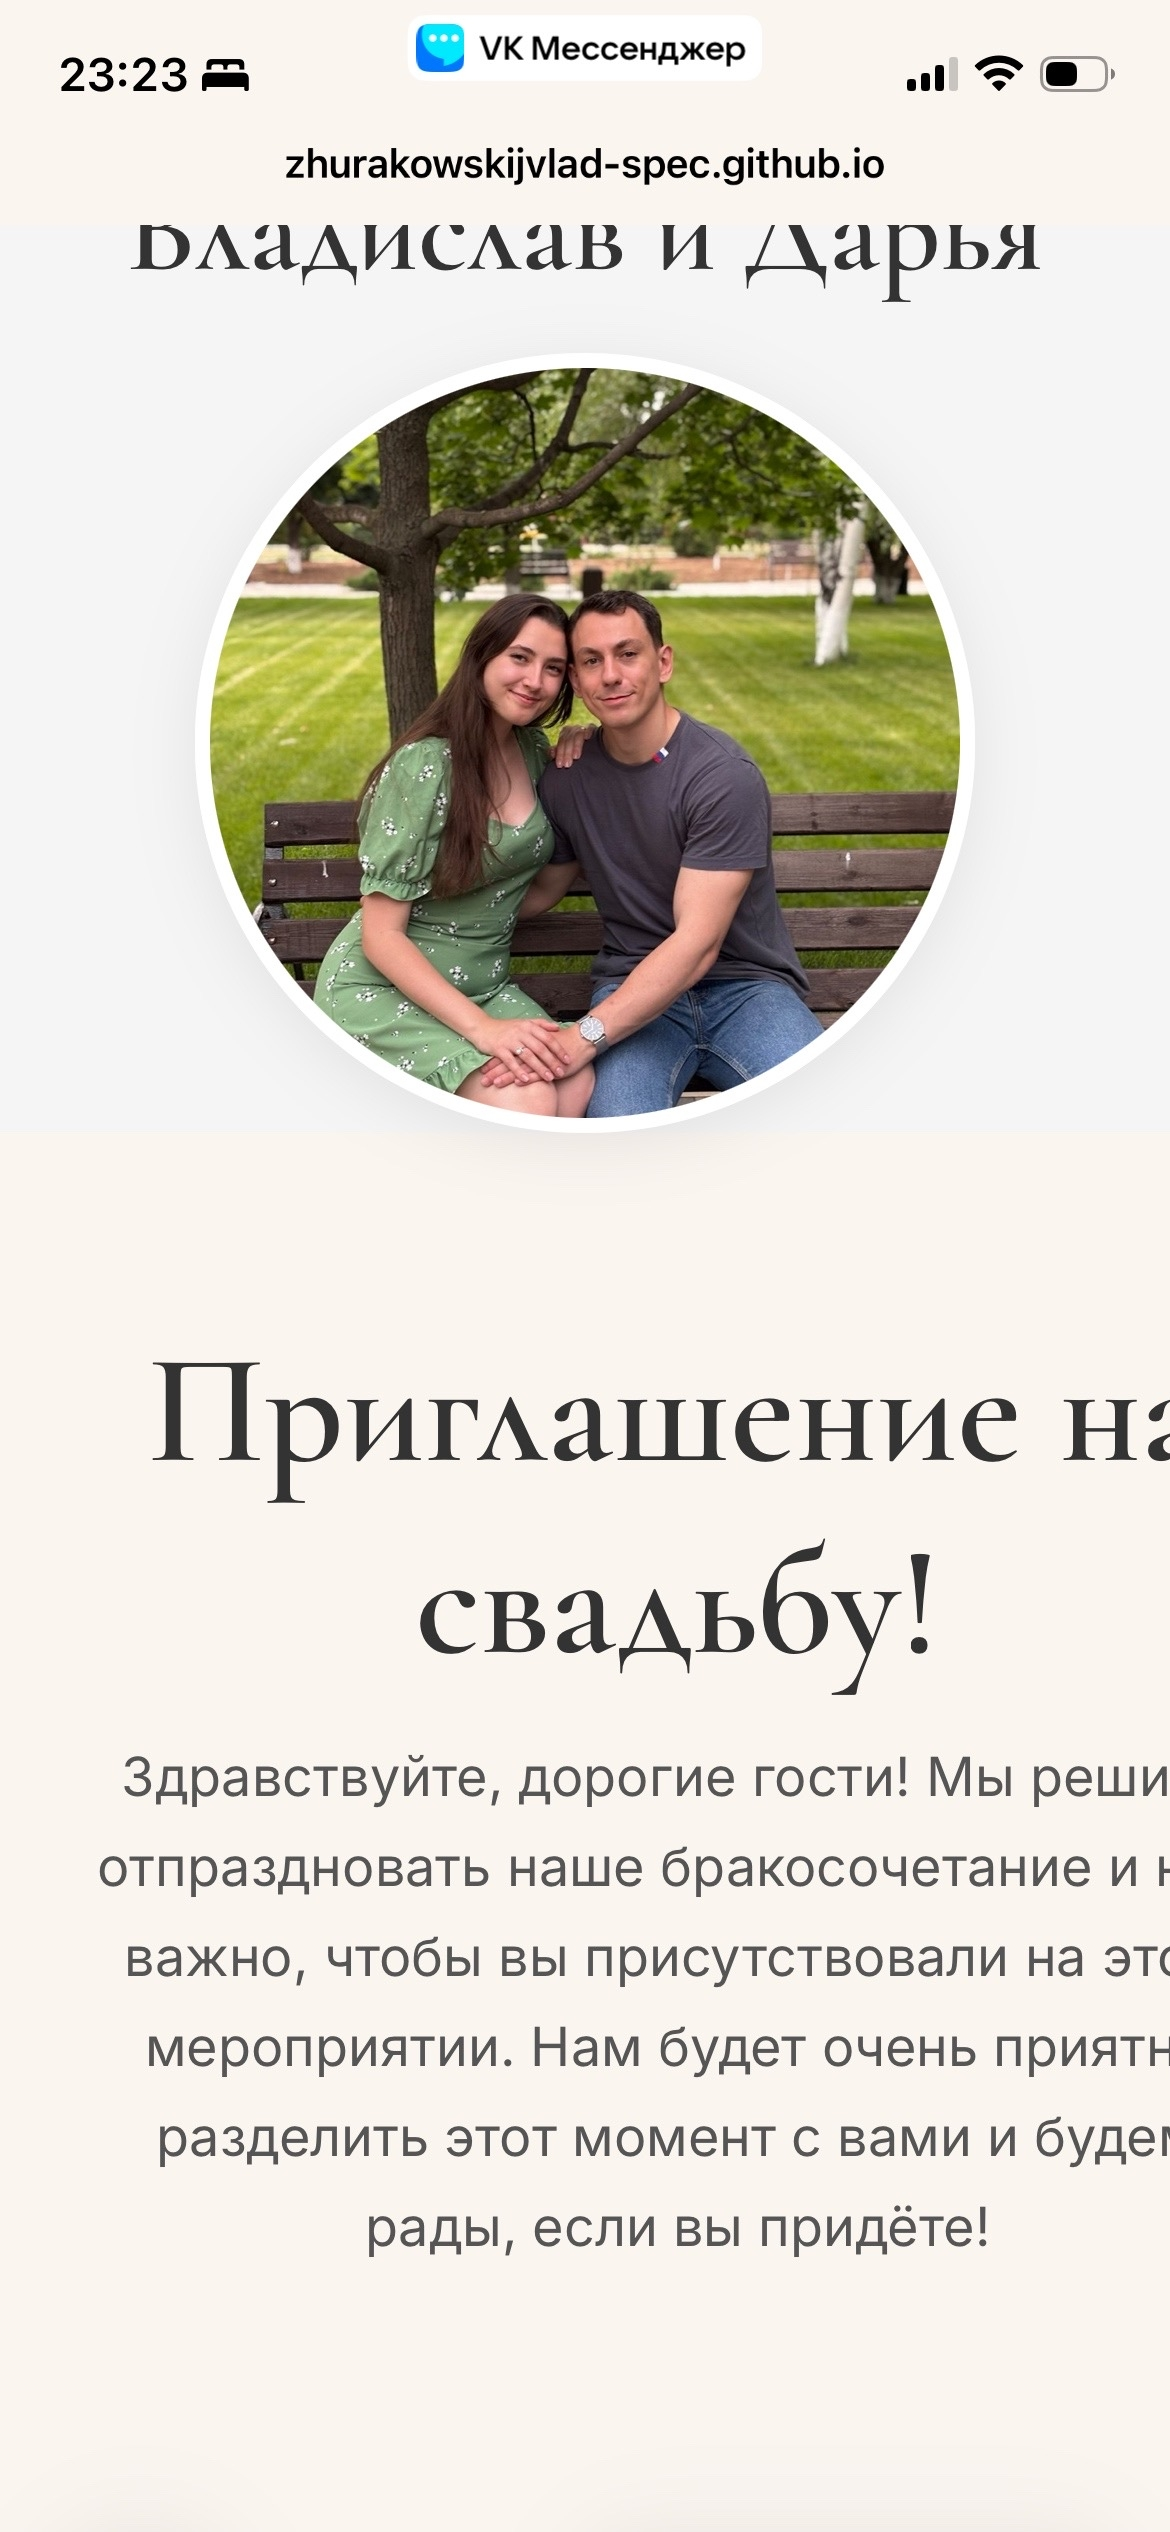
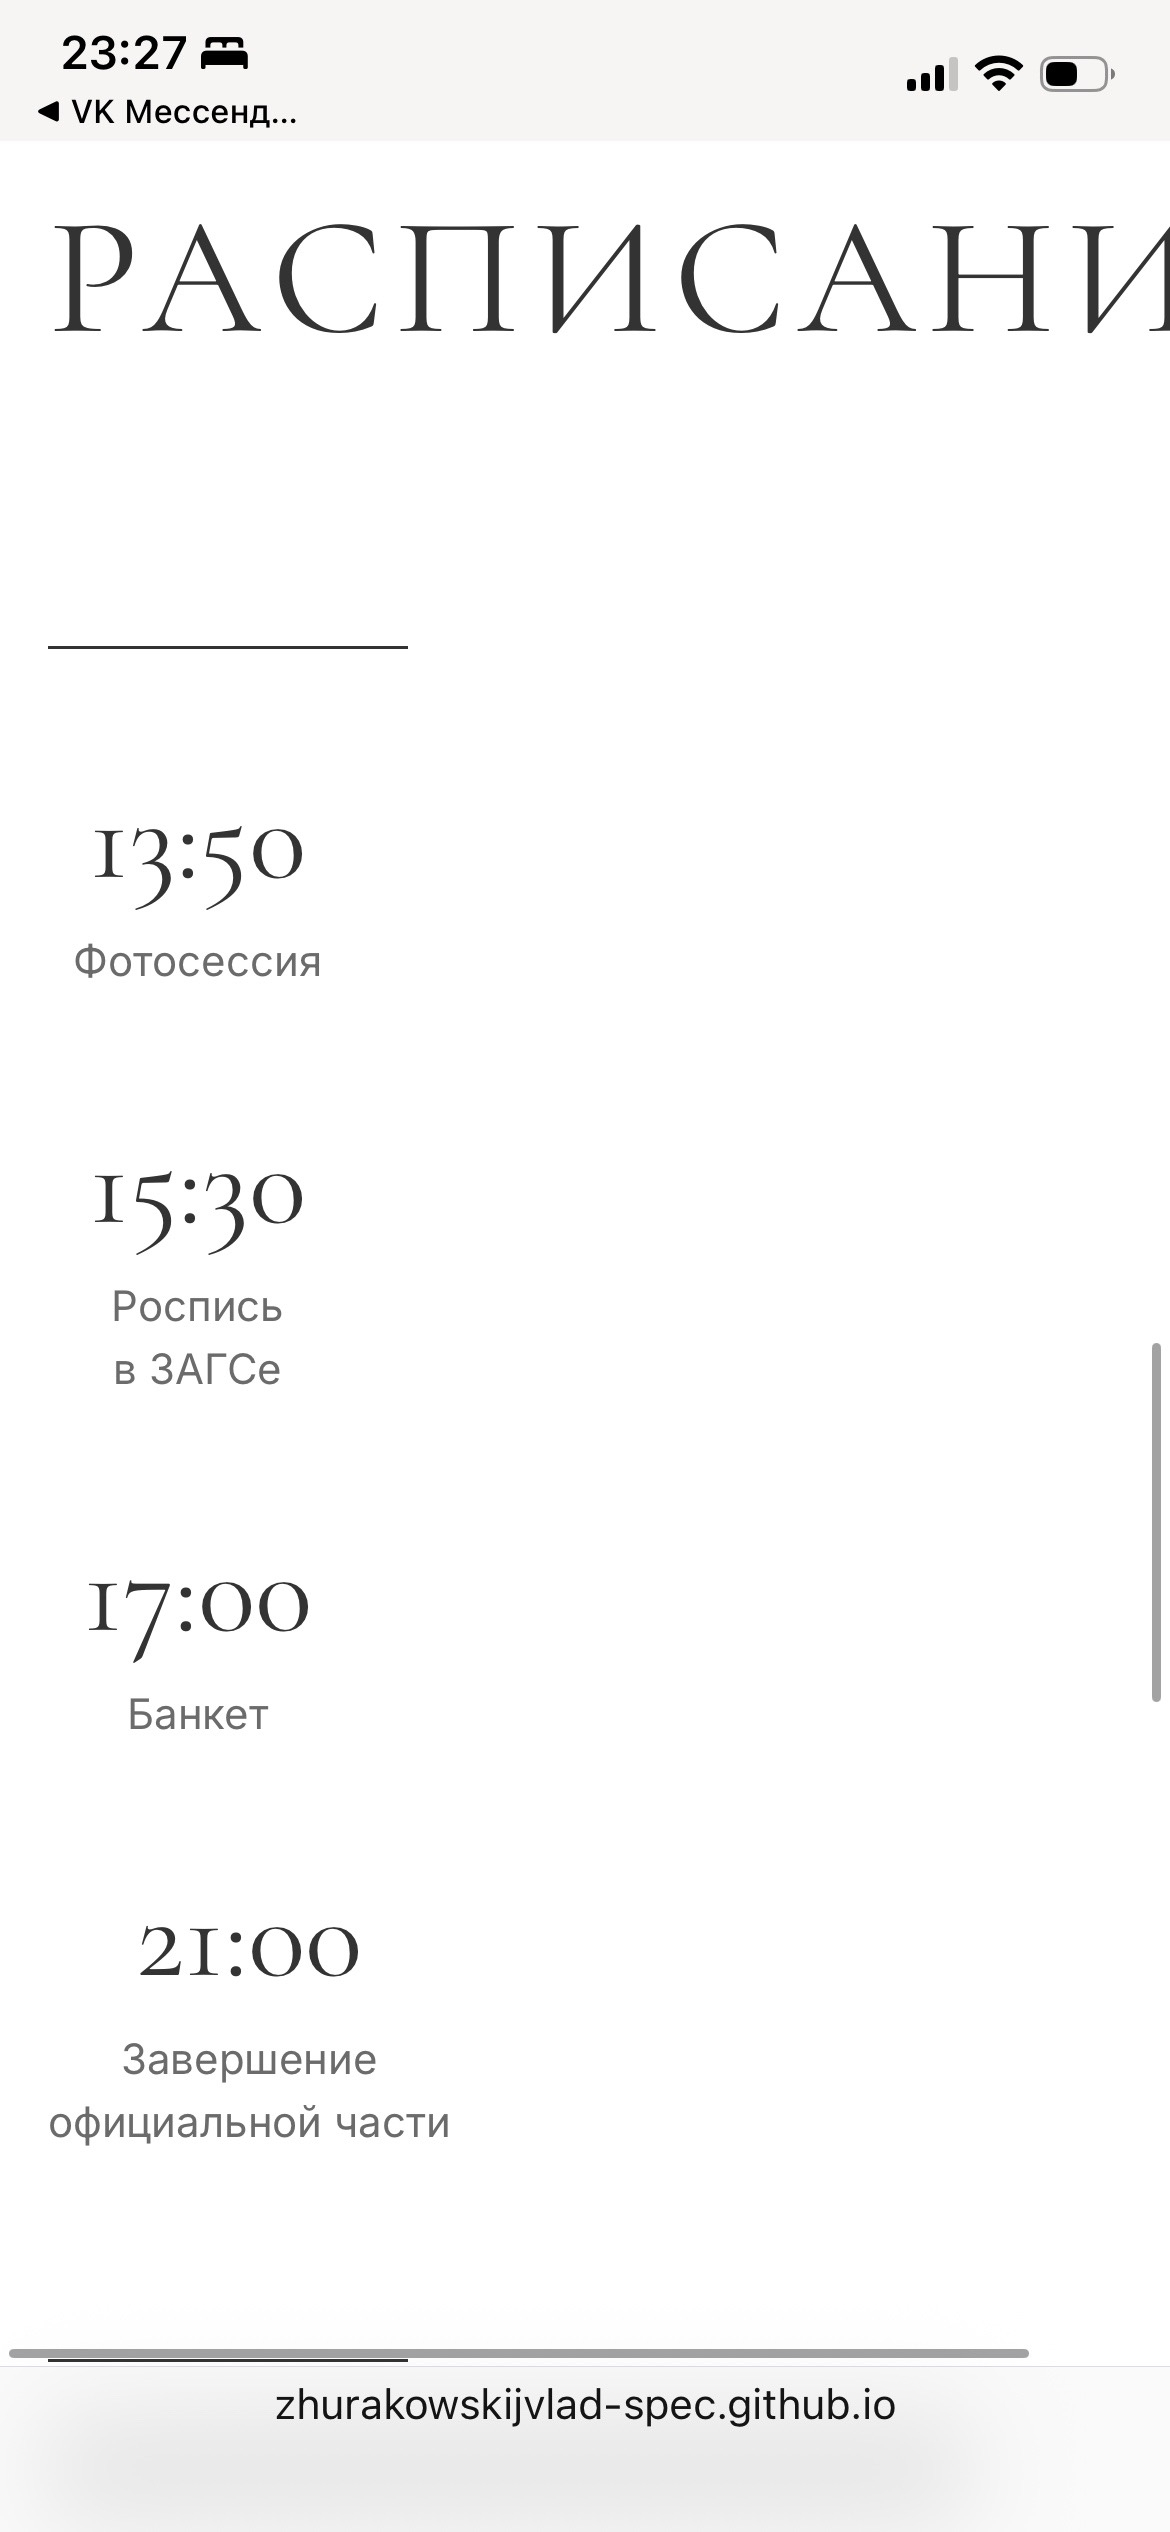
Fix CSS order: base styles before media queries, smaller timing/countdown

diff --git a/css/styles.css b/css/styles.css
@@ -157,13 +157,75 @@ body{margin:0;font-family:var(--body); color:var(--text); background:var(--bg); 
 .section-story .story-text p{ font-family:var(--body); font-size:17px; line-height:1.7; color:#555; margin:0 0 12px; }
 .section-story .story-img{ order:2; width:100%; max-width:320px; }
 .section-story .story-img img{ width:100%; display:block; border-radius:6px; box-shadow:0 2px 8px rgba(0,0,0,0.05); }
-.section-timing{ padding:100px 0; background:#fff; text-align:center; }
-.timing-title{ font-family:var(--heading); font-size:56px; color:var(--text); margin:0 0 60px; font-weight:400; letter-spacing:4px; text-transform:uppercase; }
+.section-timing{ padding:80px 0; background:#fff; text-align:center; }
+.timing-title{ font-family:var(--heading); font-size:40px; color:var(--text); margin:0 0 40px; font-weight:400; letter-spacing:3px; text-transform:uppercase; }
 .timing-row{ display:flex; justify-content:center; align-items:flex-start; gap:40px; }
-.timing-line-h{ display:inline-block; width:120px; height:1px; background:var(--text); margin-top:28px; flex-shrink:0; }
+.timing-line-h{ display:inline-block; width:120px; height:1px; background:var(--text); margin-top:22px; flex-shrink:0; }
 .timing-item{ text-align:center; min-width:100px; }
-.timing-time{ font-family:var(--heading); font-size:40px; font-weight:400; color:var(--text); margin-bottom:6px; line-height:1.2; }
+.timing-time{ font-family:var(--heading); font-size:32px; font-weight:400; color:var(--text); margin-bottom:4px; line-height:1.2; }
 .timing-label{ font-family:var(--body); font-size:14px; color:var(--muted); line-height:1.5; }
+
+@media (max-width: 900px){
+  .hero-title{font-size:52px}
+  .hero-photo{width:360px;height:360px}
+  .hero-inner{padding:60px 0 40px}
+  .story-text{padding:0 16px;overflow:visible;text-align:center}
+  .story-img{max-width:280px}
+  .story-img img{height:auto}
+  .story-text h2{font-size:28px}
+  .story-text p{font-size:15px;line-height:1.6;overflow:visible}
+  .details-grid{grid-template-columns:1fr;gap:30px}
+  .details-photo img{width:70%;margin:0 auto;display:block}
+  .location-grid{grid-template-columns:1fr;gap:30px}
+  .location-image{max-width:400px;margin:0 auto}
+  .date-layout{grid-template-columns:1fr;gap:30px}
+  .date-info{text-align:center}
+  .calendar{margin:0 auto;max-width:400px}
+  .calendar-cell{width:40px;height:40px;font-size:14px}
+  .gallery-grid{grid-template-columns:1fr 1fr}
+  .timing-row{gap:20px}
+  .timing-line-h{width:50px}
+  .cd-value{font-size:48px}
+  .countdown-rail{gap:14px}
+}
+@media (max-width: 520px){
+  .hero-title{font-size:40px}
+  .hero-photo{width:260px;height:260px;border-width:5px}
+  .hero-inner{padding:50px 0 30px}
+  .container{padding:0 16px}
+  .section-story{padding:40px 0}
+  .story-text h2{font-size:24px}
+  .story-text p{font-size:14px;line-height:1.5}
+  .story-img{max-width:260px}
+  .section-date{padding:50px 0}
+  .date-info h2{font-size:24px}
+  .date-info p{font-size:20px}
+  .calendar{max-width:320px;padding:8px}
+  .calendar-cell{width:34px;height:34px;font-size:13px}
+  .calendar-header{font-size:18px}
+  .calendar-grid{gap:3px;padding:4px 0}
+  .section-location{padding:40px 0}
+  .location-content h2{font-size:24px}
+  .restaurant-link{font-size:20px}
+  .section-details{padding:50px 0}
+  .details-text h2{font-size:24px}
+  .details-text p{font-size:15px}
+  .details-photo img{width:90%}
+  .section-timing{padding:50px 0}
+  .timing-title{font-size:22px;letter-spacing:1px;margin-bottom:24px}
+  .timing-row{flex-direction:column;align-items:center;gap:16px}
+  .timing-line-h{display:none}
+  .timing-time{font-size:22px}
+  .timing-label{font-size:13px}
+  .section-countdown{padding:40px 0}
+  .section-countdown h2{font-size:16px;letter-spacing:1px;margin-bottom:12px}
+  .cd-value{font-size:28px}
+  .cd-label{font-size:11px}
+  .sep{font-size:16px}
+  .countdown-rail{gap:6px}
+  .countbox{min-width:50px}
+  .gallery-grid{grid-template-columns:1fr}
+}
 .timeline-details, .timeline-container, .timeline, .timeline-item, .timeline-icon, .timeline-time, .timeline-label, .timeline-divider, .diamond {
   display: none !important;
 }

diff --git a/index.html b/index.html
@@ -5,7 +5,7 @@
     <meta name="viewport" content="width=device-width, initial-scale=1" />
     <title>Приглашение на свадьбу</title>
     <link href="https://fonts.googleapis.com/css2?family=Playfair+Display:wght@400;600;700&family=Inter:wght@300;400;600&family=Cormorant+Garamond:wght@300;400;600&display=swap" rel="stylesheet">
-    <link rel="stylesheet" href="css/styles.css?v=2" />
+    <link rel="stylesheet" href="css/styles.css?v=3" />
   </head>
   <body>
     <main>
